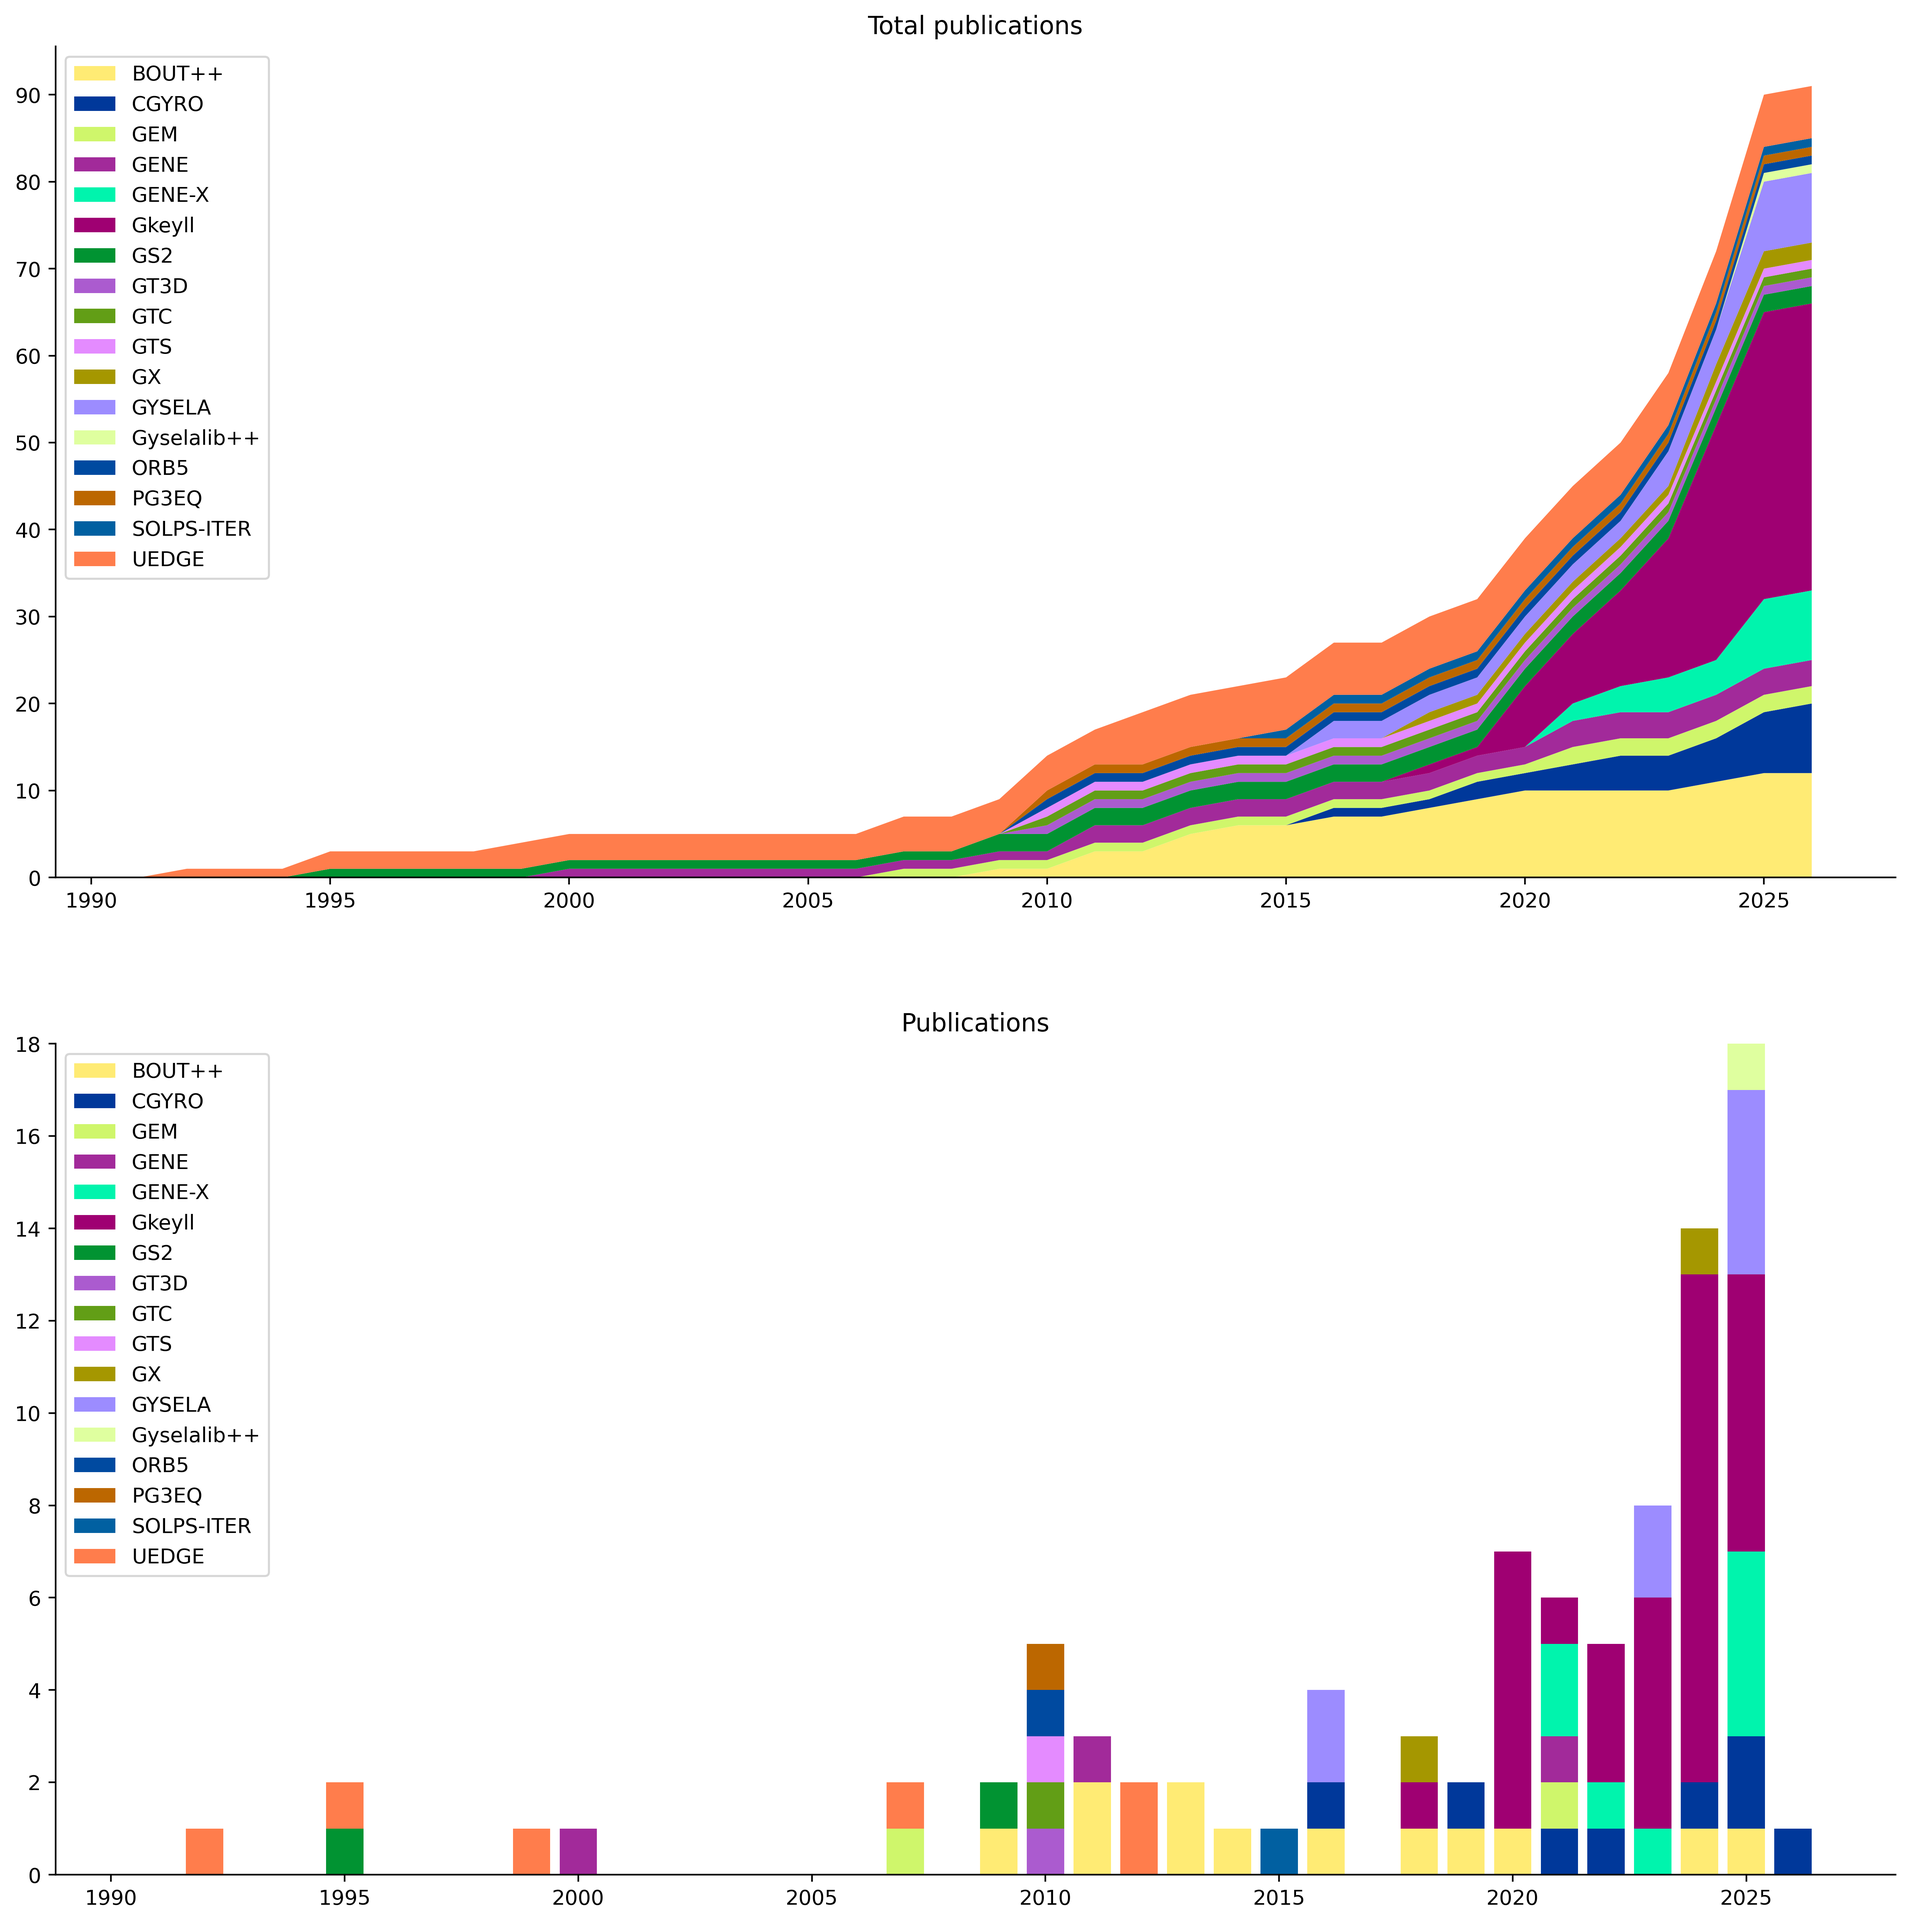
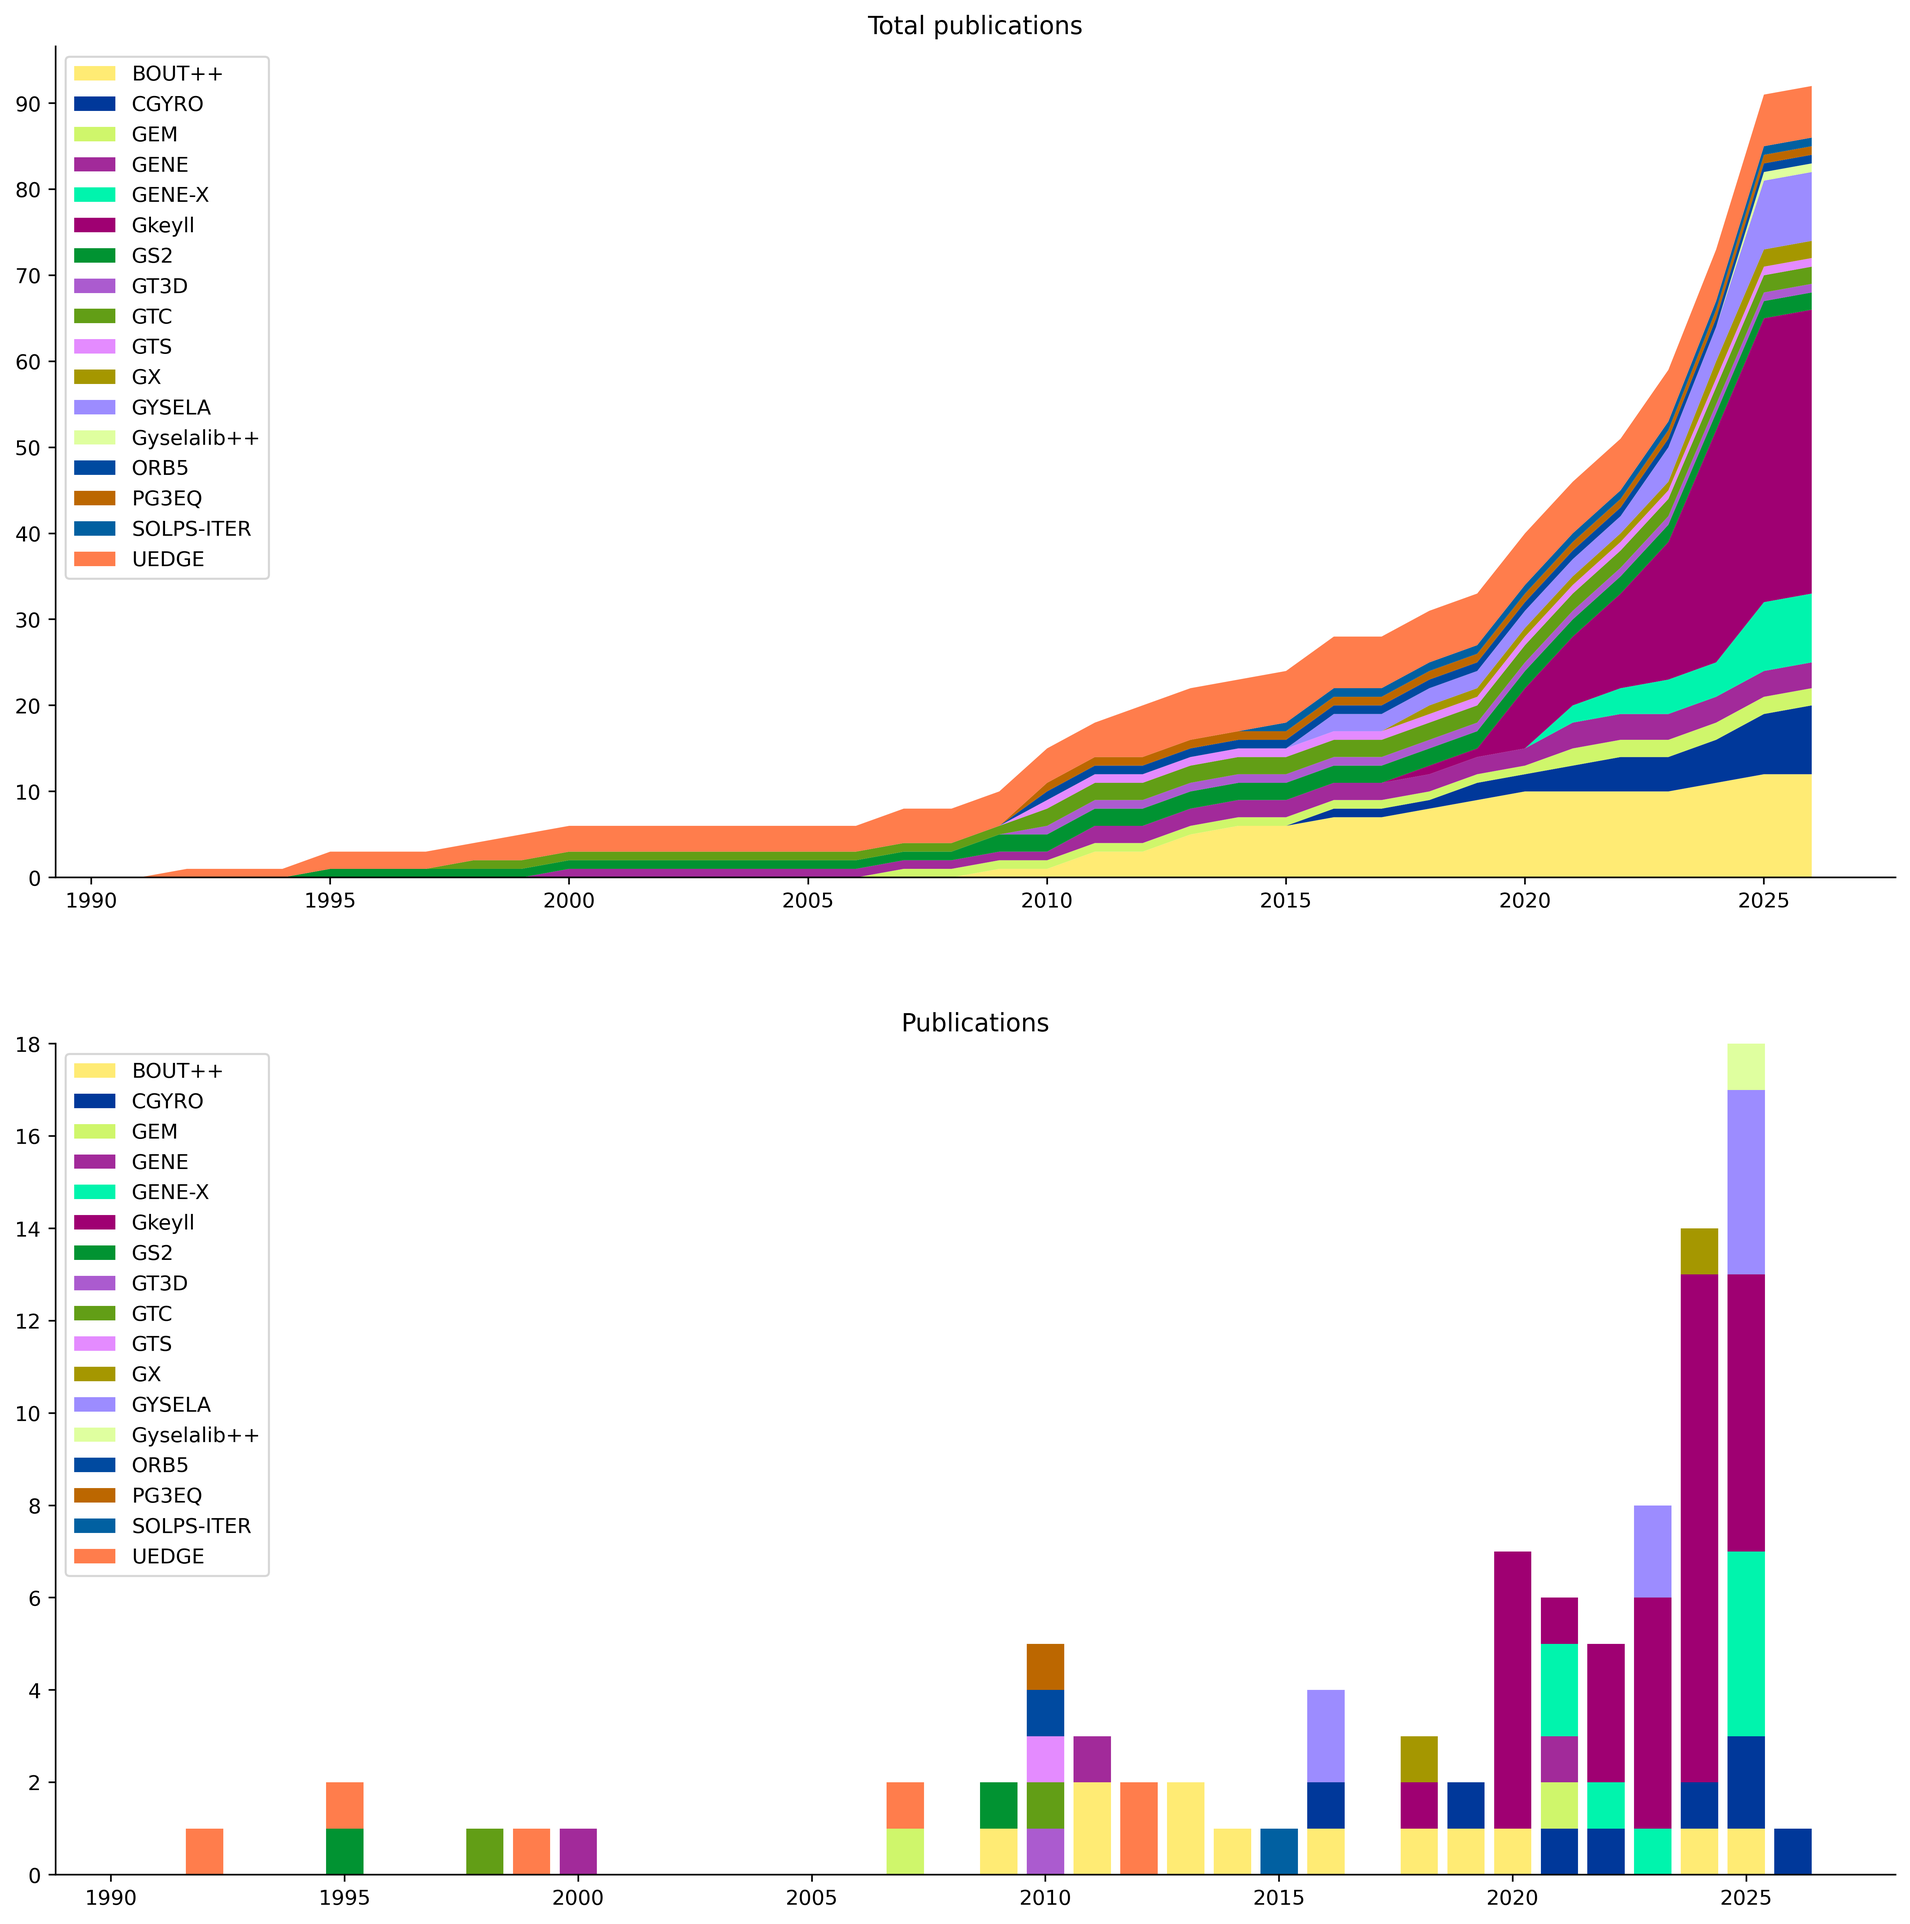
feat: add "10.1126/science.281.5384.1835"

Changed region(s): [[0.2175, 0.125, 0.9633, 0.4686], [0.2486, 0.9371, 0.2797, 0.9684]]

diff --git a/README.md b/README.md
@@ -86,6 +86,7 @@
 - Electromagnetic gyrokinetic *δf* particle-in-cell turbulence simulation with realistic equilibrium profiles and geometry. Chen and Parker (2007) [10.1016/j.jcp.2006.05.028](https://doi.org/10.1016/j.jcp.2006.05.028)
 - Electron temperature gradient driven turbulence. Jenko at el. (2000) [10.1063/1.874014](https://doi.org/10.1063/1.874014)
 - Two-dimensional electric fields and drifts near the magnetic separatrix in divertor tokamaks. Rognlien at el. (1999) [10.1063/1.873488](https://doi.org/10.1063/1.873488)
+- Turbulent Transport Reduction by Zonal Flows: Massively Parallel Simulations. Lin at el. (1998) [10.1126/science.281.5384.1835](https://doi.org/10.1126/science.281.5384.1835)
 - Comparison of initial value and eigenvalue codes for kinetic toroidal plasma instabilities. Kotschenreuther at el. (1995) [10.1016/0010-4655(95)00035-E](https://doi.org/10.1016/0010-4655(95)00035-E)
 - Techniques and results of tokamak-edge simulation. Smith at el. (1995) [10.1016/0022-3115(94)00466-8](https://doi.org/10.1016/0022-3115(94)00466-8)
 - A fully implicit, time dependent 2-D fluid code for modeling tokamak edge plasmas. Rognlien at el. (1992) [10.1016/S0022-3115(06)80058-9](https://doi.org/10.1016/S0022-3115(06)80058-9)
